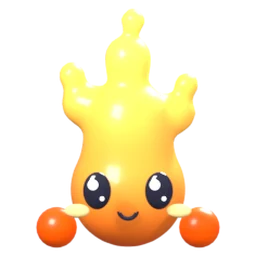
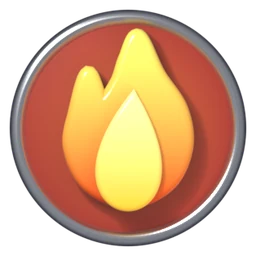
エレメントデュエルの絵をシンプルな紋章に変更
顔のあるキャラをやめ、炎・しずく・葉の紋章にした。
パワーが上がるほど、形だけ → 銀のメダル → 金のメダル と豪華になる。

diff --git a/blender/build_cards.py b/blender/build_cards.py
@@ -1,199 +1,144 @@
-# エレメントデュエル: 炎・水・草のせい(各3段階)  正面やや上から
+# エレメントデュエル: 炎・水・草のシンプルな紋章(各3段階)  真上から
+# 段階: 0=形だけ / 1=丸いメダルの上 / 2=金のふち付きメダル+光
 import sys, os
 sys.path.insert(0, os.path.dirname(os.path.abspath(__file__)))
 from lib import *
 
 
-def card_lights():
-    world(0.22, top=(0.85, 0.9, 1.0), bottom=(0.2, 0.18, 0.22))
-    k = light('AREA', (-2.2, -3.0, 3.2), energy=380, size=2.2, color=(1, 0.96, 0.9), name='key'); look_at(k, (0, 0, 0.5))
-    f = light('AREA', (2.8, -2.2, 1.2), energy=150, size=3.5, color=(0.85, 0.9, 1), name='fill', glossy=False); look_at(f, (0, 0, 0.5))
-    r = light('AREA', (1.5, 2.8, 2.8), energy=600, size=1.6, color=(1, 1, 1), name='rim'); look_at(r, (0, 0, 0.6))
+def smooth_loop(pts, n=8):
+    """とがった折れ線をなめらかな閉曲線にする(Catmull-Rom)。'!' 付きの点は角として残す"""
+    out = []
+    m = len(pts)
+    for i in range(m):
+        p0, p1, p2, p3 = (pts[(i + k) % m] for k in (-1, 0, 1, 2))
+        sharp = len(p1) > 2
+        for k in range(n):
+            t = k / n
+            if sharp and k == 0:
+                out.append((p1[0], p1[1])); continue
+            t2, t3 = t * t, t * t * t
+            x = 0.5 * ((2 * p1[0]) + (-p0[0] + p2[0]) * t + (2 * p0[0] - 5 * p1[0] + 4 * p2[0] - p3[0]) * t2 + (-p0[0] + 3 * p1[0] - 3 * p2[0] + p3[0]) * t3)
+            y = 0.5 * ((2 * p1[1]) + (-p0[1] + p2[1]) * t + (2 * p0[1] - 5 * p1[1] + 4 * p2[1] - p3[1]) * t2 + (-p0[1] + 3 * p1[1] - 3 * p2[1] + p3[1]) * t3)
+            out.append((x, y))
+    return out
 
 
-def blob(elems, name, res=0.02):
-    """メタボールで有機的な体を作ってメッシュ化"""
-    bpy.ops.object.metaball_add(type='BALL', radius=1, location=(0, 0, 0))
-    mb = bpy.context.object; md = mb.data; md.resolution = res; md.render_resolution = res; md.threshold = 0.6
-    md.elements.clear()
-    for e in elems:
-        el = md.elements.new()
-        el.type = e.get('type', 'BALL'); el.co = e['co']; el.radius = e['r']; el.stiffness = e.get('s', 2.0)
-        if el.type == 'ELLIPSOID':
-            el.size_x, el.size_y, el.size_z = e['size']
-        if 'rot' in e:
-            el.rotation = Euler(e['rot']).to_quaternion()
-    bpy.context.view_layer.update()
-    bpy.ops.object.convert(target='MESH')
-    o = bpy.context.object; o.name = name
-    md2 = o.modifiers.new('sm', 'SMOOTH'); md2.factor = 0.6; md2.iterations = 6
-    for p in o.data.polygons:
-        p.use_smooth = True
+def puffy(pts, name, m, depth=0.06, bev=0.07, z=0.0):
+    """輪郭をふっくらした立体にする(押し出し+丸いベベル)"""
+    cu = bpy.data.curves.new(name, 'CURVE'); cu.dimensions = '2D'; cu.fill_mode = 'BOTH'
+    cu.extrude = depth; cu.bevel_depth = bev; cu.bevel_resolution = 10; cu.resolution_u = 4
+    sp = cu.splines.new('POLY'); sp.points.add(len(pts) - 1)
+    for i, (x, y) in enumerate(pts):
+        sp.points[i].co = (x, y, 0, 1)
+    sp.use_cyclic_u = True
+    o = bpy.data.objects.new(name, cu); bpy.context.collection.objects.link(o)
+    o.location.z = z
+    assign(o, m)
     return o
 
 
-def face(z, y, spread=0.17, size=0.085, blush=(1, 0.45, 0.55), happy=False):
-    """目(白い反射つき)・口・ほっぺ。y は顔の表面位置(-Y が正面)"""
-    eye = mat('eye', (0.02, 0.02, 0.04), rough=0.05, coat=1.0)
-    hl = mat('hl', (1, 1, 1), emit=(1, 1, 1), emit_str=1.2)
-    for sx in (-1, 1):
-        e = sphere(size, (sx * spread, y, z), 32, 16, 'eye'); e.scale = (0.85, 0.45, 1.15); assign(e, eye)
-        h = sphere(size * 0.32, (sx * spread - size * 0.25, y - size * 0.42, z + size * 0.45), 16, 8, 'hl'); assign(h, hl)
-        h2 = sphere(size * 0.14, (sx * spread + size * 0.3, y - size * 0.42, z - size * 0.4), 12, 6, 'hl2'); assign(h2, hl)
-        b = sphere(size * 0.6, (sx * (spread + size * 1.2), y + size * 0.35, z - size * 1.3), 24, 12, 'blush'); b.scale = (1.25, 0.35, 0.7)
-        assign(b, mat('bl', blush, rough=0.85, spec=0.2))
-    # 口: 小さな弧
-    bpy.ops.mesh.primitive_torus_add(major_radius=size * 0.55, minor_radius=size * 0.13, major_segments=32, minor_segments=8,
-                                     location=(0, y - 0.005, z - size * 1.15))
-    m = bpy.context.object; m.rotation_euler = (math.radians(90), 0, 0)
-    bm = bmesh.new(); bm.from_mesh(m.data)
-    bmesh.ops.delete(bm, geom=[v for v in bm.verts if v.co.y > -size * 0.1], context='VERTS')   # 上半分を消して笑顔の弧に
-    bm.to_mesh(m.data); bm.free(); assign(m, eye)
-
-
-def gradient_mat(name, c_low, c_high, emit=0.0, rough=0.25, sss=0.0, trans=0.0, z0=0.0, z1=1.2, coat=0.6):
-    m = mat(name, c_low, rough=rough, sss=sss, trans=trans, coat=coat)
+def grad(name, c_lo, c_hi, y0, y1, rough=0.18, emit=0.0, coat=1.0):
+    m = mat(name, c_lo, rough=rough, coat=coat)
     nt = m.node_tree; p = nt.nodes.get('Principled BSDF')
     tc = nt.nodes.new('ShaderNodeTexCoord'); sep = nt.nodes.new('ShaderNodeSeparateXYZ')
-    mr = nt.nodes.new('ShaderNodeMapRange'); mr.inputs['From Min'].default_value = z0; mr.inputs['From Max'].default_value = z1
-    r = nt.nodes.new('ShaderNodeValToRGB'); r.color_ramp.elements[0].color = (*c_low, 1); r.color_ramp.elements[1].color = (*c_high, 1)
-    nt.links.new(tc.outputs['Object'], sep.inputs[0]); nt.links.new(sep.outputs['Z'], mr.inputs['Value'])
+    mr = nt.nodes.new('ShaderNodeMapRange'); mr.inputs['From Min'].default_value = y0; mr.inputs['From Max'].default_value = y1
+    r = nt.nodes.new('ShaderNodeValToRGB'); r.color_ramp.elements[0].color = (*c_lo, 1); r.color_ramp.elements[1].color = (*c_hi, 1)
+    nt.links.new(tc.outputs['Object'], sep.inputs[0]); nt.links.new(sep.outputs['Y'], mr.inputs['Value'])
     nt.links.new(mr.outputs['Result'], r.inputs['Fac']); nt.links.new(r.outputs['Color'], p.inputs['Base Color'])
     if emit:
         nt.links.new(r.outputs['Color'], p.inputs['Emission Color']); p.inputs['Emission Strength'].default_value = emit
     return m
 
 
-def crown(z, r=0.16):
-    gold = mat('gold', (1.0, 0.68, 0.12), rough=0.25, metal=0.7, emit=(1.0, 0.6, 0.1), emit_str=0.15)
-    gem = mat('gem', (0.9, 0.1, 0.3), rough=0.02, coat=1, emit=(1, 0.2, 0.4), emit_str=1.0)
-    band = cyl(r, 0.06, 64, (0, 0, z), 'band'); assign(band, gold); bevel(band, 0.01, 2)
-    for i in range(5):
-        a = 2 * math.pi * i / 5 + math.pi / 2
-        bpy.ops.mesh.primitive_cone_add(vertices=24, radius1=0.045, radius2=0.0, depth=0.12, location=(r * math.cos(a), r * math.sin(a), z + 0.08))
-        c = bpy.context.object; assign(c, gold); smooth(c, 0)
-        s = sphere(0.022, (r * math.cos(a), r * math.sin(a), z + 0.15), 16, 8, 'ball'); assign(s, gold)
-    g = sphere(0.035, (0, -r - 0.005, z), 24, 12, 'gem'); g.scale = (1, 0.5, 1); assign(g, gem)
+# --- 形(高さ 約2 の大きさで作る) ---
+def flame_pts(inner=False):
+    """ゆらめく炎: 先が右に曲がった大きな先端+左の小さな舌"""
+    if inner:   # 内側の明るい炎(しずく形を少しゆがめる)
+        return [(0.42 * math.sin(t) * math.sin(t / 2) + 0.06 * (1 + math.cos(t)) ** 2 / 4, 0.62 * math.cos(t) - 0.28)
+                for t in (2 * math.pi * i / 120 for i in range(120))]
+    pts = [(0.12, 1.05, 1), (0.34, 0.62), (0.6, 0.22), (0.66, -0.22), (0.46, -0.64), (0.0, -0.84), (-0.46, -0.64), (-0.66, -0.22),
+           (-0.6, 0.18), (-0.46, 0.62, 1), (-0.3, 0.3), (-0.12, 0.52), (-0.02, 0.8)]
+    return smooth_loop(pts, 12)
 
 
-def sparkles(n, rad, z, col, seed=1):
-    random.seed(seed)
-    m = mat('spk', col, emit=col, emit_str=1.6)
-    for i in range(n):
-        a = random.uniform(0, 2 * math.pi); rr = rad * random.uniform(0.8, 1.15)
-        s = sphere(random.uniform(0.018, 0.035), (rr * math.cos(a), rr * math.sin(a) * 0.6 + 0.2, z + random.uniform(-0.35, 0.45)), 12, 6, 'spk'); assign(s, m)
+def drop_pts():
+    """しずく: 上がとがり、下は丸い"""
+    return [(0.66 * math.sin(t) * math.sin(t / 2), 0.98 * math.cos(t) - 0.06) for t in (2 * math.pi * i / 160 for i in range(160))]
 
 
-def fire(lv):
-    reset(); card_lights()
-    s = 0.8 + lv * 0.12
-    el = [dict(co=(0, 0, 0.32 * s), r=0.42 * s), dict(co=(0, 0, 0.62 * s), r=0.3 * s),
-          dict(co=(0, 0.02, 0.88 * s), r=0.17 * s), dict(co=(0.02, 0.03, 1.04 * s), r=0.09 * s)]
-    tongues = [(-0.2, 0.68, 0.14), (0.21, 0.64, 0.13)] if lv >= 1 else []
-    if lv >= 2:
-        tongues += [(-0.3, 0.48, 0.12), (0.31, 0.44, 0.12), (-0.1, 0.92, 0.1)]
-    for x, z, r in tongues:
-        el.append(dict(co=(x * s, 0.04, z * s), r=r * s))
-        el.append(dict(co=(x * s * 1.18, 0.05, (z + 0.12) * s), r=r * 0.7 * s))
-    body = blob(el, 'fire', 0.018)
-    m = gradient_mat('fire', (0.85, 0.08, 0.0), (1.0, 0.72, 0.1), emit=0.35, rough=0.35, z0=0.05, z1=1.0 * s, coat=0.3)
-    assign(body, m)
-    # 内側の明るい芯
-    face(0.4 * s, -0.4 * s, 0.13 * s, 0.07 * s, blush=(1, 0.75, 0.3))
-    if lv >= 1:   # 小さな手
-        for sx in (-1, 1):
-            h = sphere(0.085 * s, (sx * 0.3 * s, -0.2 * s, 0.2 * s), 24, 12, 'hand'); assign(h, m)
-    if lv >= 2:
-        crown(1.08 * s, 0.16 * s)
-        sparkles(10, 0.62 * s, 0.6 * s, (1, 0.6, 0.15), 3)
-    return s
+def leaf_pts():
+    """両端のとがった葉(斜め)"""
+    pts = []
+    for i in range(160):
+        t = 2 * math.pi * i / 160
+        sn = math.sin(t)
+        w = 0.6 * math.copysign(abs(sn) ** 1.5, sn) * (1 + 0.12 * math.cos(t))
+        pts.append((w, 0.98 * math.cos(t)))
+    a = math.radians(-35)
+    return [(x * math.cos(a) - y * math.sin(a), x * math.sin(a) + y * math.cos(a)) for x, y in pts]
 
 
-def water(lv):
-    reset(); card_lights()
-    s = 0.8 + lv * 0.12
-    el = [dict(co=(0, 0, 0.35 * s), r=0.45 * s), dict(co=(0, 0, 0.66 * s), r=0.26 * s), dict(co=(0, 0, 0.88 * s), r=0.14 * s),
-          dict(co=(0, 0, 0.98 * s), r=0.08 * s)]
-    if lv >= 1:
-        for sx in (-1, 1):
-            el.append(dict(type='ELLIPSOID', co=(sx * 0.36 * s, 0.05, 0.3 * s), r=0.17 * s, size=(1.4, 0.5, 0.8), rot=(0, sx * 0.6, 0)))
-    if lv >= 2:
-        el.append(dict(type='ELLIPSOID', co=(0, 0.3 * s, 0.75 * s), r=0.14 * s, size=(0.4, 1.3, 1.0)))
-    body = blob(el, 'water', 0.018)
-    m = gradient_mat('water', (0.0, 0.12, 0.65), (0.35, 0.8, 1.0), rough=0.05, sss=0.4, z0=0.0, z1=1.1 * s, coat=1.0)
-    p = m.node_tree.nodes.get('Principled BSDF')
-    p.inputs['Transmission Weight'].default_value = 0.25
-    assign(body, m)
-    # 体の中の泡
-    bub = mat('bub', (0.85, 0.97, 1), rough=0.02, coat=1, alpha=0.55, emit=(0.6, 0.9, 1), emit_str=0.4)
-    for x, z, r in ((0.14, 0.62, 0.035),):
-        b = sphere(r * s, (x * s, -0.22 * s, z * s), 16, 8, 'bub'); assign(b, bub)
-    face(0.4 * s, -0.43 * s, 0.14 * s, 0.072 * s, blush=(0.95, 0.5, 0.65))
-    if lv >= 2:
-        crown(1.06 * s, 0.15 * s)
-        sparkles(12, 0.65 * s, 0.6 * s, (0.5, 0.9, 1.0), 5)
-    return s
+STYLE = {
+    'fire': dict(pts=flame_pts, lo=(0.85, 0.05, 0.0), hi=(1.0, 0.78, 0.12), disc=(0.35, 0.03, 0.02), disc2=(0.65, 0.12, 0.03), glow=(1.0, 0.45, 0.1)),
+    'water': dict(pts=drop_pts, lo=(0.0, 0.18, 0.75), hi=(0.45, 0.88, 1.0), disc=(0.01, 0.06, 0.25), disc2=(0.04, 0.2, 0.5), glow=(0.3, 0.75, 1.0)),
+    'grass': dict(pts=leaf_pts, lo=(0.02, 0.32, 0.06), hi=(0.55, 0.92, 0.2), disc=(0.02, 0.18, 0.05), disc2=(0.06, 0.38, 0.1), glow=(0.5, 1.0, 0.35)),
+}
 
 
-def leaf(loc, rot, size, m):
-    """葉っぱ: 先のとがった、ふっくらした楕円体"""
-    o = sphere(1, (0, 0, 0), 48, 24, 'leaf')
-    for v in o.data.vertices:
-        z = v.co.z                     # -1..1 を葉の付け根..先に
-        t = (z + 1) / 2
-        w = math.sin(t * math.pi) ** 0.8 * (1 - t * 0.35)
-        v.co.x *= w * 0.38; v.co.y *= w * 0.1; v.co.z = t
-        v.co.y += (v.co.x * 2.2) ** 2 * 0.25 - t * t * 0.12       # 少し反らせる
-    o.scale = (size, size, size); o.location = loc; o.rotation_euler = rot
-    smooth(o, 1); assign(o, m)
-    return o
-
-
-def grass(lv):
-    reset(); card_lights()
-    s = 0.8 + lv * 0.12
-    el = [dict(type='ELLIPSOID', co=(0, 0, 0.36 * s), r=0.44 * s, size=(1.08, 1.0, 0.9))]
-    if lv >= 1:
-        for sx in (-1, 1):
-            el.append(dict(co=(sx * 0.2 * s, -0.05, 0.08 * s), r=0.16 * s))     # 足
-    body = blob(el, 'grass', 0.018)
-    m = gradient_mat('grass', (0.04, 0.3, 0.06), (0.4, 0.78, 0.15), rough=0.4, sss=0.2, z0=0.0, z1=0.8 * s, coat=0.4)
-    noise_bump(m, 30, 0.08, 4)
-    assign(body, m)
-    face(0.42 * s, -0.42 * s, 0.15 * s, 0.075 * s)
-    lm = gradient_mat('leaf', (0.03, 0.28, 0.04), (0.35, 0.72, 0.1), rough=0.35, sss=0.2, z0=0.6 * s, z1=1.2 * s, coat=0.5)
-    top = 0.5 * s
-    stem = cyl(0.025 * s, 0.14 * s, 16, (0, 0, top + 0.05 * s), 'stem'); assign(stem, mat('stem', (0.35, 0.55, 0.15), rough=0.5))
-    leaf((0, 0, top + 0.1 * s), (0, math.radians(-50), 0), 0.38 * s, lm)
-    leaf((0, 0, top + 0.1 * s), (0, math.radians(50), 0), 0.38 * s, lm)
-    if lv >= 1:
-        leaf((0, 0.02, top + 0.1 * s), (math.radians(25), 0, 0), 0.3 * s, lm)
-        for sx in (-1, 1):   # 腕の葉
-            leaf((sx * 0.28 * s, -0.08 * s, 0.26 * s), (0, math.radians(sx * 110), 0), 0.24 * s, lm)
-    if lv >= 2:
-        # 花の冠
-        pet = mat('pet', (1.0, 0.55, 0.75), rough=0.4, sss=0.3)
-        cen = mat('cen', (1.0, 0.8, 0.2), rough=0.4)
-        for k in range(7):
-            a = math.radians(-10 + 200 * k / 6)          # 後ろ半分だけに並べて顔をかくさない
-            cx, cy = 0.4 * s * math.cos(a), 0.28 * s * math.sin(a) + 0.05 * s
-            for pi_ in range(5):
-                b = 2 * math.pi * pi_ / 5
-                p = sphere(0.04 * s, (cx + 0.045 * s * math.cos(b), cy + 0.045 * s * math.sin(b), top + 0.02 * s), 16, 8, 'pet'); p.scale = (1.3, 1.3, 0.4); assign(p, pet)
-            c = sphere(0.03 * s, (cx, cy, top + 0.04 * s), 16, 8, 'cen'); assign(c, cen)
-        sparkles(10, 0.62 * s, 0.6 * s, (0.8, 1.0, 0.5), 7)
-    return s
-
-
-def shoot(name, s):
-    h = 1.35 * s
-    cam_persp((0, -6.5, 0.5 * s + 1.4), (0, 0, 0.5 * s), ortho=1.75 * s, res=(384, 384))
-    render(name)
+def emblem(el, lv):
+    reset()
+    world(0.25, top=(0.9, 0.92, 1.0), bottom=(0.15, 0.15, 0.2))
+    k = light('AREA', (-2.5, 2.8, 5), energy=420, size=1.6, color=(1, 0.97, 0.92), name='key'); look_at(k, (0, 0, 0))
+    f = light('AREA', (3, -2, 3), energy=160, size=4, color=(0.85, 0.9, 1), name='fill', glossy=False); look_at(f, (0, 0, 0))
+    st = STYLE[el]
+    sc = 0.78 if lv else 0.95                      # メダルがある段階では形を少し小さく
+    pts = [(x * sc, y * sc) for x, y in st['pts']()]
+    sym = puffy(pts, 'sym', grad('sym', st['lo'], st['hi'], -0.9 * sc, 1.0 * sc, emit=0.12), 0.05, 0.075, 0.12)
+    if el == 'fire':      # 内側の明るい炎
+        inner = [(x * sc, y * sc) for x, y in flame_pts(True)]
+        puffy(inner, 'inner', grad('inner', (1.0, 0.5, 0.03), (1.0, 0.88, 0.3), -0.9 * sc, 0.35 * sc, emit=0.3), 0.02, 0.05, 0.27)
+    if el == 'grass':     # 葉脈(中心+左右の細い脈)と葉柄
+        a = math.radians(-35)
+        rot = lambda x, y: ((x * math.cos(a) - y * math.sin(a)) * sc, (x * math.sin(a) + y * math.cos(a)) * sc)
+        vm = mat('vein', (0.78, 1.0, 0.6), rough=0.3, emit=(0.6, 1, 0.4), emit_str=0.25)
+        lines = [([(0.0, -1.25), (0.0, -0.9), (0.03, -0.2), (0.0, 0.8)], 0.024)]
+        for yy in (-0.45, -0.05, 0.35):
+            for sx in (-1, 1):
+                lines.append(([(0.02 * sx, yy), (0.3 * sx, yy + 0.24)], 0.013))
+        for pts_, r in lines:
+            cu = bpy.data.curves.new('vein', 'CURVE'); cu.dimensions = '3D'; cu.bevel_depth = r; cu.bevel_resolution = 4
+            sp = cu.splines.new('POLY'); sp.points.add(len(pts_) - 1)
+            for i, (x, y) in enumerate(pts_):
+                X, Y = rot(x, y); sp.points[i].co = (X, Y, 0.26 if y > -0.95 else 0.12, 1)
+            o = bpy.data.objects.new('vein', cu); bpy.context.collection.objects.link(o); assign(o, vm)
+    if el == 'water':     # 白い反射
+        hl = puffy([(x * 0.12 - 0.2 * sc, y * 0.22 - 0.25 * sc) for x, y in smooth_loop([(0, 1), (0.6, 0), (0, -1), (-0.6, 0)], 12)], 'hl',
+                   mat('hl', (1, 1, 1), emit=(1, 1, 1), emit_str=0.8, rough=0.2), 0.0, 0.02, 0.26)
+        hl.rotation_euler.z = math.radians(-20)
+    if lv >= 1:           # メダル
+        disc = cyl(1.0, 0.12, 128, (0, 0, -0.06), 'disc'); bevel(disc, 0.05, 6)
+        dm = mat('disc', st['disc'], rough=0.25, coat=1.0)
+        nt = dm.node_tree; p = nt.nodes.get('Principled BSDF')
+        tc = nt.nodes.new('ShaderNodeTexCoord'); g = nt.nodes.new('ShaderNodeTexGradient'); g.gradient_type = 'SPHERICAL'
+        r = nt.nodes.new('ShaderNodeValToRGB'); r.color_ramp.elements[0].color = (*st['disc'], 1); r.color_ramp.elements[1].color = (*st['disc2'], 1)
+        nt.links.new(tc.outputs['Object'], g.inputs['Vector']); nt.links.new(g.outputs['Fac'], r.inputs['Fac']); nt.links.new(r.outputs['Color'], p.inputs['Base Color'])
+        assign(disc, dm)
+        rim_m = mat('rim', (0.85, 0.88, 0.95), rough=0.2, metal=1.0) if lv == 1 else mat('gold', (1.0, 0.7, 0.18), rough=0.18, metal=1.0)
+        bpy.ops.mesh.primitive_torus_add(major_radius=1.0, minor_radius=0.065, major_segments=160, minor_segments=24, location=(0, 0, 0.0))
+        rim = bpy.context.object; assign(rim, rim_m)
+    if lv >= 2:           # 金の鋲と光の輪
+        gold = bpy.data.materials['gold']
+        for i in range(8):
+            a = 2 * math.pi * i / 8 + math.pi / 8
+            s = sphere(0.055, (1.0 * math.cos(a), 1.0 * math.sin(a), 0.06), 24, 12, 'stud'); assign(s, gold)
+        bpy.ops.mesh.primitive_torus_add(major_radius=0.86, minor_radius=0.012, major_segments=160, minor_segments=8, location=(0, 0, 0.07))
+        t = bpy.context.object; assign(t, mat('glowring', st['glow'], emit=st['glow'], emit_str=2.0))
+    cam_top(2.35, 10, (320, 320))
+    render('card_%s%d' % (el, lv))
 
 
 which = sys.argv[sys.argv.index('--') + 1:] if '--' in sys.argv else ['all']
-for elname, fn in (('fire', fire), ('water', water), ('grass', grass)):
-    if 'all' in which or elname in which:
+for el in ('fire', 'water', 'grass'):
+    if 'all' in which or el in which:
         for lv in range(3):
-            sc = fn(lv)
-            shoot('card_%s%d' % (elname, lv), sc)
+            emblem(el, lv)

diff --git a/blender/export.py b/blender/export.py
@@ -65,7 +65,7 @@ def table_crop():
 
 
 total += icon('hockey', [(table_crop(), 150, (80, 80), 0), ('hockey_mallet_pink', 62, (104, 52), 0), ('hockey_puck', 34, (70, 84), 0), ('hockey_mallet_blue', 72, (60, 116), 0)])
-total += icon('cards', [('card_water2', 112, (42, 84), 12), ('card_grass2', 112, (118, 84), -12), ('card_fire2', 140, (80, 76), 0)])
+total += icon('cards', [('card_water2', 92, (44, 96), 0), ('card_grass2', 92, (116, 96), 0), ('card_fire2', 108, (80, 62), 0)])
 total += icon('sea', [('sea_ship4_h', 158, (80, 84), 28)])
 total += icon('escape', [('escape_door', 150, (80, 80), 0)])
 total += icon('pilot', [('space_planet', 120, (110, 40), 0), ('space_ship', 132, (76, 92), -18)])
